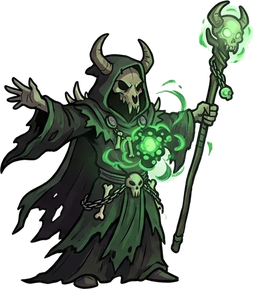
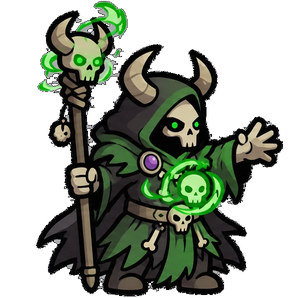
네크로맨서(보스 9) 본체를 메인 화풍으로 교체 (베타 1.297)
Claude-Session: https://claude.ai/code/session_01EFTEodMUbbTSUTixRFZg7z

diff --git a/docs/asset-prompts.md b/docs/asset-prompts.md
@@ -1490,3 +1490,5 @@ Character: a necromancer boss, the stage 9 boss of a dark fantasy mercenary game
 
 Avoid: realistic proportions, tall lean adult body, long legs, small head, hunched back, photo, 3d render, gradients, glow blur, smoke, big energy explosions, glossy highlights, painterly texture, thin or white outline, ground line, checkerboard pattern, detailed skull, realistic bone texture, detailed teeth, cropped or overlapping items, logo, watermark, any text other than the three captions.
 ```
+
+**13-9 진행**: 받음, 적용됨(베타 1.297). 똑바로 선 치비 자세(구부정한 예전 자세 삭제), 해골 가면 단순 얼굴, 흡수 포즈의 초록 빛도 작게 들어가 잘림이 없고 로고도 없어 첫 시안을 그대로 썼다. `assets/units/boss9_idle.png`·`boss9_cast.png`·`boss9_drain.png`(305x298 같은 캔버스, 발 중심 정렬), 예전 그림은 `_old`로 보관. 본체 3포즈 외 부속 그림은 아직 예전 그림이다: 스켈레톤 6종(`assets/units/skel_*`), 안개·영혼 구슬·시체·사슬 이펙트(`assets/fx/boss9_*`). 다음은 스테이지 10 군주(본체 3포즈 + 근위대·초소 등 18장).
